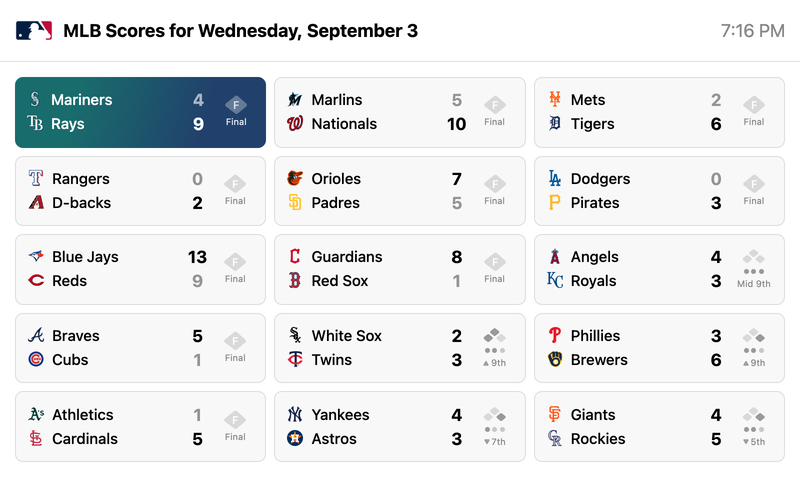
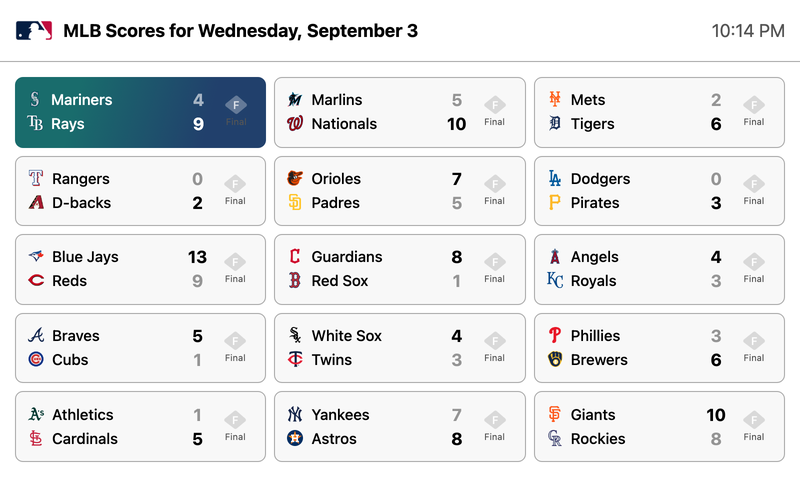
Theme improvements for legibility

diff --git a/src/static/styles/display-styles.css b/src/static/styles/display-styles.css
@@ -45,14 +45,16 @@
   --color-gray-600: #666;
   --color-gray-700: #333;
   --color-gray-800: #d9d9d9;
-  
+
   /* MLB Scoreboard Theme Colors */
-  --mlb-scoreboard-bg: #00514A;
+  --mlb-scoreboard-bg: #00514a;
   --mlb-scoreboard-pill-bg: #004843;
-  --mlb-scoreboard-border: #A4E6EF;
+  --mlb-scoreboard-border: #a4e6ef;
   --mlb-scoreboard-border-40: rgba(164, 230, 239, 0.4);
-  --mlb-scoreboard-base-filled: #FFE28B;
-  --mlb-scoreboard-out-filled: #C33E5B;
+  --mlb-scoreboard-base-filled: #ffe28b;
+  --mlb-scoreboard-base-empty: rgba(255, 255, 255, 0.6);
+  --mlb-scoreboard-out-filled: #c33e5b;
+  --mlb-scoreboard-out-empty: rgba(255, 255, 255, 0.6);
   --color-gray-900: #000;
 
   /* Color Opacity Variants */
@@ -107,6 +109,20 @@
   --eink-border-light: var(--color-gray-200);
   --eink-border-medium: var(--color-gray-300);
   --eink-border-dark: var(--color-gray-400);
+
+  /* E-ink Optimized Variables (darker for better contrast) */
+  --eink-optimized-text-secondary: #555;
+  --eink-optimized-text-muted: #666;
+  --eink-optimized-border-light: #aaa;
+  --eink-optimized-border-medium: #888;
+  --eink-optimized-border-dark: #666;
+
+  /* E-ink Optimized Baseball Diamond Colors */
+  --eink-optimized-diamond-base-filled: #888;
+  --eink-optimized-diamond-base-empty: #bbb;
+  --eink-optimized-diamond-arrow: #888;
+  --eink-optimized-out-dot-empty: #bbb;
+  --eink-optimized-out-dot-filled: #888;
 
   /* Display Layout */
   --display-padding: 2.5%;
@@ -510,6 +526,41 @@ body {
   color: var(--color-white-80);
 }
 
+/* E-ink Optimized Contrast Theme */
+body.eink-optimized .header .current-time {
+  color: var(--eink-optimized-text-secondary) !important;
+}
+
+body.eink-optimized .game-pill:not(.dynamic-colors) .team-record {
+  color: var(--eink-optimized-text-muted) !important;
+}
+
+body.eink-optimized .game-pill:not(.dynamic-colors) .game-status {
+  color: var(--eink-optimized-text-secondary) !important;
+}
+
+body.eink-optimized .game-pill {
+  border-color: var(--eink-optimized-border-light) !important;
+}
+
+body.eink-optimized .header {
+  border-bottom-color: var(--eink-optimized-border-light) !important;
+}
+
+body.eink-optimized .game-pill:not(.dynamic-colors) .score.losing-score {
+  opacity: 0.7 !important;
+  color: var(--eink-optimized-text-muted) !important;
+}
+
+/* E-ink optimized out dots */
+body.eink-optimized .out-dot {
+  background: #bbb !important;
+}
+
+body.eink-optimized .out-dot.filled {
+  background: #888 !important;
+}
+
 .theme-mlb-scoreboard .header {
   border-bottom: 1.5px solid var(--mlb-scoreboard-border-40) !important;
 }
@@ -521,8 +572,8 @@ body {
 
 /* MLB Scoreboard outs styling */
 .out-dot.mlb-scoreboard {
-  background: var(--diamond-base-empty);
-  opacity: 0.3;
+  background: var(--mlb-scoreboard-out-empty);
+  opacity: 1;
 }
 
 .out-dot.mlb-scoreboard.filled {

diff --git a/src/static/js/diamond.js b/src/static/js/diamond.js
@@ -1,6 +1,7 @@
 // Baseball Diamond Component
 // Renders a baseball diamond showing base runners and outs
 import { themeManager } from './theme-manager.js';
+import { FEATURE_FLAGS } from './config.js';
 
 // Helper function to get CSS variable values
 function getCSSVariable(variableName) {
@@ -50,8 +51,15 @@ export function generateBaseballDiamondComponent(game, isDynamicColors = false, 
     // For final games, show diamond with F in center
     const isFinal = gameStatus === 'Final';
     if (isFinal) {
+      const isEinkOptimized = FEATURE_FLAGS.EINK_OPTIMIZED_CONTRAST && themeManager.currentTheme === 'default';
+      const diamondIcon = isDynamicColors 
+        ? 'final-transparent.png'
+        : isEinkOptimized 
+          ? 'final-legible.png'
+          : 'final.png';
+          
       const finalDiamond = `
-        <img src="assets/icons/${isDynamicColors ? 'diamond-alt-white.png' : 'diamond-alt.png'}" alt="Diamond" class="final-diamond-png">
+        <img src="assets/icons/${diamondIcon}" alt="Diamond" class="final-diamond-png">
       `;
       return `
         <div class="baseball-diamond-component">
@@ -82,14 +90,23 @@ export function generateBaseballDiamondComponent(game, isDynamicColors = false, 
   
   // Get base colors from CSS variables
   const isMLBScoreboard = themeManager.isMLBScoreboard();
+  const isEinkOptimized = FEATURE_FLAGS.EINK_OPTIMIZED_CONTRAST && themeManager.currentTheme === 'default';
+  
   const baseFilledColor = isMLBScoreboard 
     ? getCSSVariable('--mlb-scoreboard-base-filled')
     : isDynamicColors 
       ? getCSSVariable('--diamond-base-filled-dynamic')
-      : getCSSVariable('--diamond-base-filled');
-  const baseEmptyColor = isDynamicColors 
-    ? getCSSVariable('--diamond-base-empty-dynamic')
-    : getCSSVariable('--diamond-base-empty');
+      : isEinkOptimized 
+        ? getCSSVariable('--eink-optimized-diamond-base-filled')
+        : getCSSVariable('--diamond-base-filled');
+        
+  const baseEmptyColor = isMLBScoreboard
+    ? getCSSVariable('--mlb-scoreboard-base-empty')
+    : isDynamicColors 
+      ? getCSSVariable('--diamond-base-empty-dynamic')
+      : isEinkOptimized
+        ? getCSSVariable('--eink-optimized-diamond-base-empty')  
+        : getCSSVariable('--diamond-base-empty');
   
   // Generate SVG with dynamic base fills
   const diamondSvg = `

diff --git a/src/static/js/renderer.js b/src/static/js/renderer.js
@@ -22,6 +22,13 @@ export function renderGames(games, league = LEAGUES.MLB) {
   const container = document.getElementById('games');
   container.innerHTML = '';
 
+  // Apply e-ink optimized contrast only for default theme
+  if (FEATURE_FLAGS.EINK_OPTIMIZED_CONTRAST && currentTheme === 'default') {
+    document.body.classList.add('eink-optimized');
+  } else {
+    document.body.classList.remove('eink-optimized');
+  }
+
   // Initialize theme manager
   themeManager.setTheme(currentTheme);
 

diff --git a/src/static/js/config.js b/src/static/js/config.js
@@ -3,6 +3,7 @@
 // Feature flags
 export const FEATURE_FLAGS = {
   SHOW_STANDINGS: false,
+  EINK_OPTIMIZED_CONTRAST: true,
 };
 
 // Favorite team configuration
